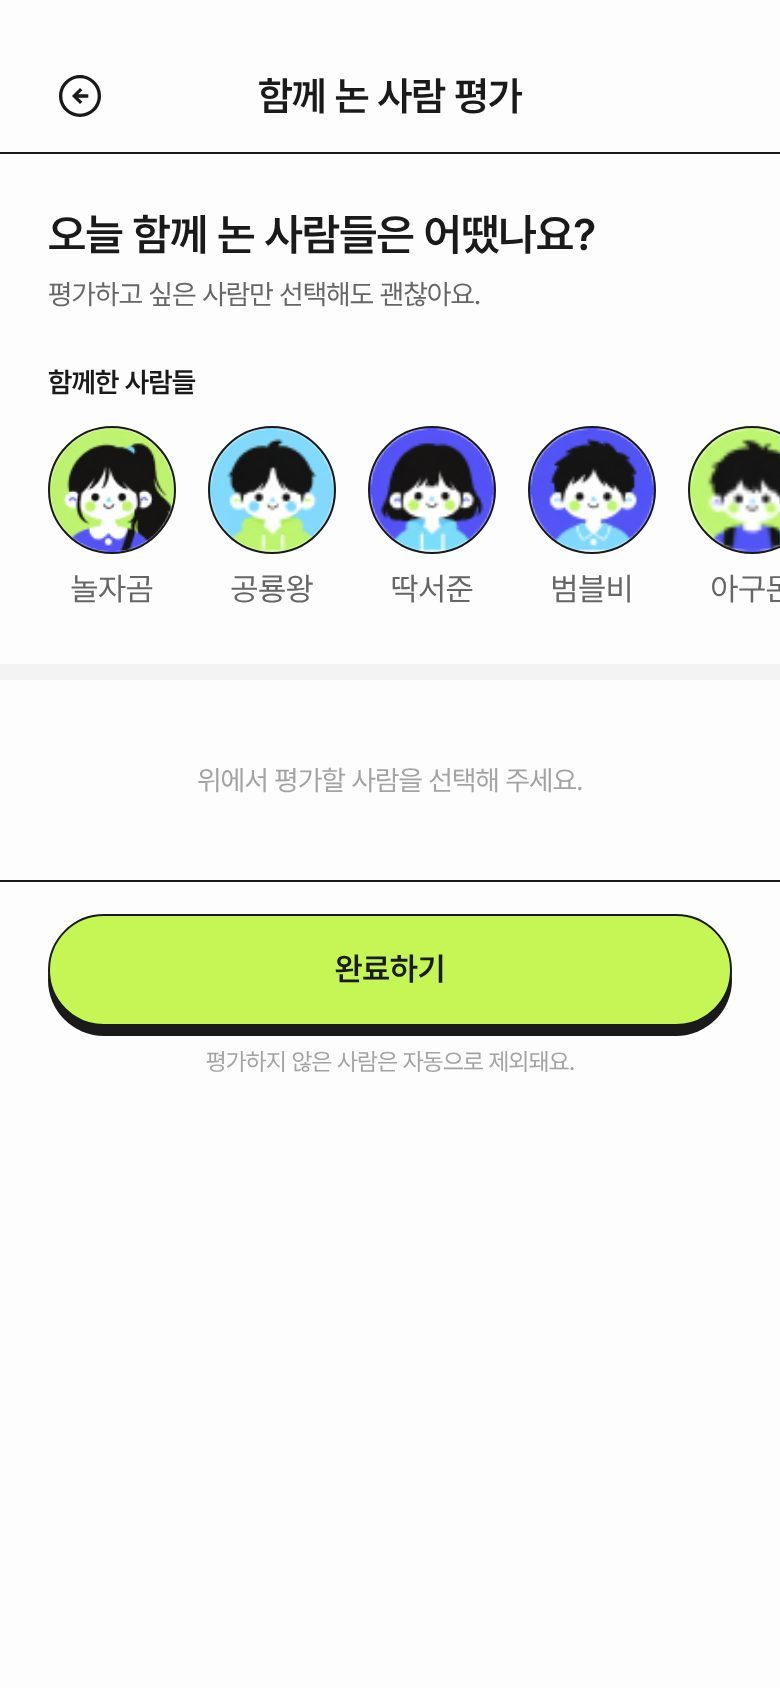
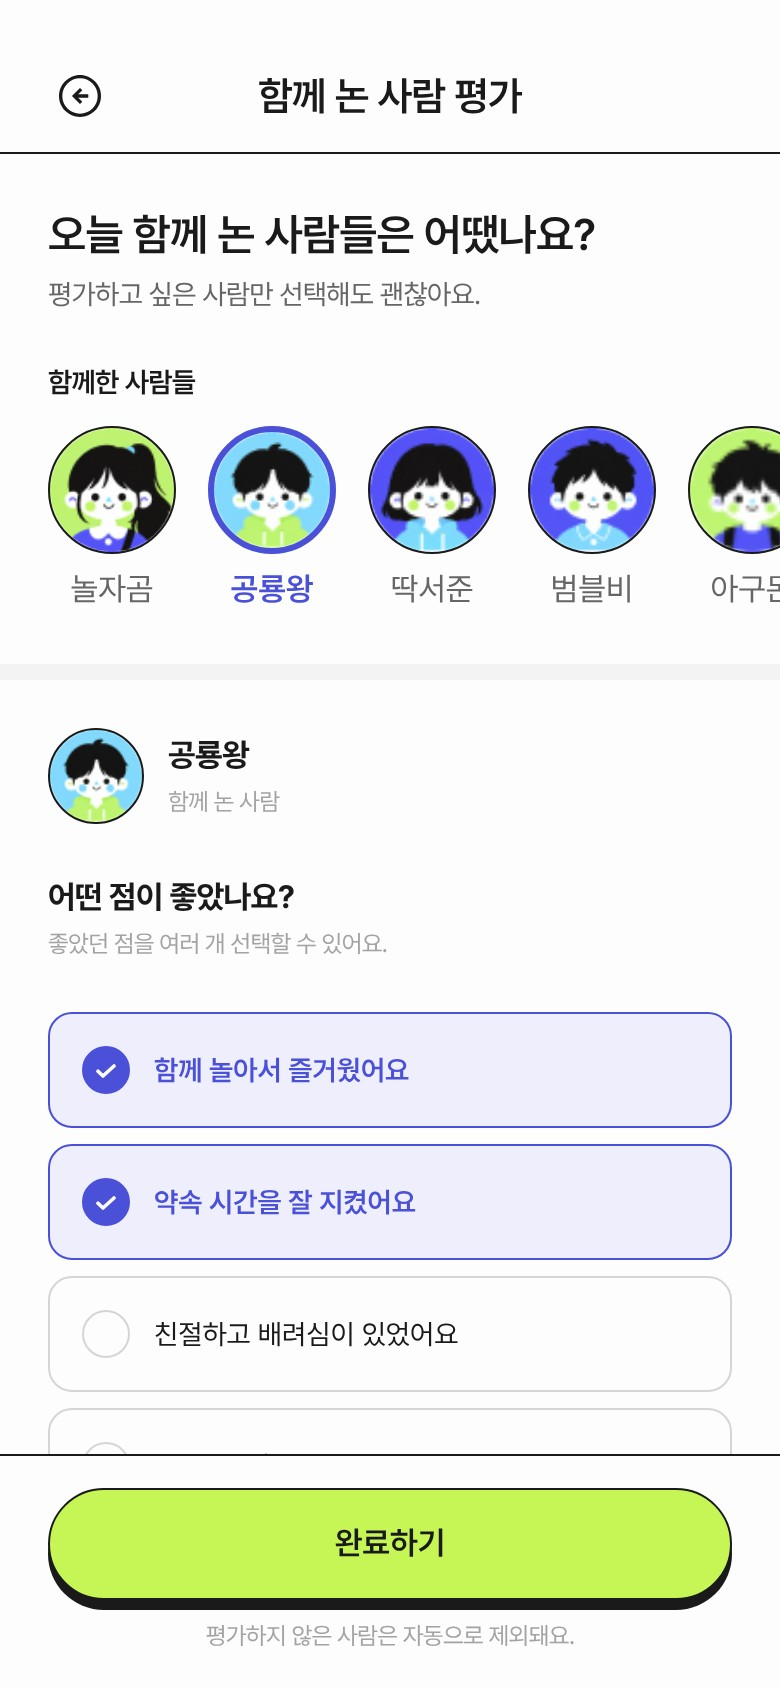
Add files via upload

diff --git a/pocket/index.html b/pocket/index.html
@@ -98,8 +98,9 @@ button{font-family:inherit;cursor:pointer;color:inherit}
 .chip b{font-family:'Press Start 2P',monospace;font-size:7px;font-weight:400}
 .chip.on{background:#1A1A1A;border-color:#1A1A1A;color:#FDFDFD}
 .chip.on b{color:#C5F656}
+.vrow .vn{background:#FDFDFD;transition:background .2s}.vrow.on .vn{background:#C5F656}.vrow:not(.on) p>b{color:#8A8A8A!important;font-size:15px!important}.vd{display:block;animation:fade .25s both}
 .vpanel{position:absolute;left:28px;top:64px;width:200px;height:336px;border-radius:22px;background:#F4FBE3;border:2px solid #E2F3B8;box-sizing:border-box}
-.vrow{display:flex;gap:12px;align-items:flex-start;padding:10px 0;border-top:1.5px solid #E3E4EA}
+.vrow{cursor:pointer;display:flex;gap:12px;align-items:flex-start;padding:10px 0;border-top:1.5px solid #E3E4EA}
 .blink{animation:blink 1s steps(1) infinite}
 .clr{position:absolute;inset:0;overflow:hidden;cursor:pointer;background:#5BC8FA;z-index:8;animation:clrfade .9s .5s ease both}
 @keyframes clrfade{from{opacity:0}}
@@ -191,19 +192,19 @@ button{font-family:inherit;cursor:pointer;color:inherit}
 <div class="view">
 <div class="chips"><sc-for list="{{chips}}" as="cp" hint-placeholder-count="5"><button class="chip {{cp.on}}" onClick="{{cp.pick}}"><b>{{cp.n}}</b>{{cp.title}}</button></sc-for></div>
 <div class="vpanel"></div>
-<sc-if value="{{st.phone}}" hint-placeholder-val="{{true}}"><div style="position: absolute; left: 53px; top: 76px; width: 150px; height: 312px; border: 4px solid #1A1A1A; border-radius: 24px; overflow: hidden; background: #1A1A1A; box-sizing: border-box"><img src="{{st.img}}" alt="{{st.alt}}" style="width: 100%; height: 100%; object-fit: cover; object-position: top; display: block"></div></sc-if>
-<sc-if value="{{st.watch}}" hint-placeholder-val="{{false}}">
+<sc-if value="{{sv.phone}}" hint-placeholder-val="{{true}}"><div style="position: absolute; left: 53px; top: 76px; width: 150px; height: 312px; border: 4px solid #1A1A1A; border-radius: 24px; overflow: hidden; background: #1A1A1A; box-sizing: border-box"><img src="{{sv.img}}" alt="{{sv.alt}}" style="width: 100%; height: 100%; object-fit: cover; object-position: top; display: block"></div></sc-if>
+<sc-if value="{{sv.watch}}" hint-placeholder-val="{{false}}">
 <span style="position: absolute; left: 77px; top: 76px; width: 102px; height: 80px; background: #3A3B45; border: 3px solid #1A1A1A; border-bottom: 0; border-radius: 16px 16px 0 0; box-sizing: border-box"></span>
 <span style="position: absolute; left: 77px; top: 308px; width: 102px; height: 80px; background: #3A3B45; border: 3px solid #1A1A1A; border-top: 0; border-radius: 0 0 16px 16px; box-sizing: border-box"></span>
 <span style="position: absolute; left: 206px; top: 178px; width: 10px; height: 38px; background: #1A1A1A; border-radius: 0 5px 5px 0"></span>
-<div style="position: absolute; left: 48px; top: 136px; width: 160px; height: 192px; border-radius: 42px; background: #1A1A1A; border: 4px solid #1A1A1A; box-sizing: border-box; padding: 7px; box-shadow: inset 0 0 0 3px #4A4B55"><img src="{{st.img}}" alt="{{st.alt}}" style="width: 100%; height: 100%; object-fit: cover; border-radius: 32px; display: block"></div>
+<div style="position: absolute; left: 48px; top: 136px; width: 160px; height: 192px; border-radius: 42px; background: #1A1A1A; border: 4px solid #1A1A1A; box-sizing: border-box; padding: 7px; box-shadow: inset 0 0 0 3px #4A4B55"><img src="{{sv.img}}" alt="{{sv.alt}}" style="width: 100%; height: 100%; object-fit: cover; border-radius: 32px; display: block"></div>
 </sc-if>
 <div style="position: absolute; left: 256px; top: 64px; right: 30px; height: 336px; display: flex; flex-direction: column; justify-content: center; padding-bottom: 28px; box-sizing: border-box">
 <p style="margin: 0 0 6px; font-size: 32px; line-height: 38px; font-weight: 900; letter-spacing: -0.03em">{{st.title}}</p>
 <p style="margin: 0 0 18px; font-size: 15px; line-height: 22px; font-weight: 700; color: #5C5C5C">{{st.desc}}</p>
-<sc-for list="{{st.notes}}" as="nt" hint-placeholder-count="3"><div class="vrow"><b class="vn">{{nt.k}}</b><p style="margin: 0; font-size: 14px; line-height: 20px; color: #3A3A3A"><b style="display: block; font-size: 17px; line-height: 23px; color: #1A1A1A">{{nt.t}}</b>{{nt.d}}</p></div></sc-for>
+<sc-for list="{{slides}}" as="sd" hint-placeholder-count="3"><div class="vrow {{sd.on}}" onClick="{{sd.pick}}" role="button" tabindex="0"><b class="vn">{{sd.k}}</b><p style="margin: 0; font-size: 14px; line-height: 20px; color: #3A3A3A"><b style="display: block; font-size: 17px; line-height: 23px; color: #1A1A1A">{{sd.t}}</b><sc-if value="{{sd.open}}" hint-placeholder-val="{{false}}"><span class="vd">{{sd.d}}</span></sc-if></p></div></sc-for>
 </div>
-<div class="hint"><span><b>◀▶</b>단계</span><span><b>B</b>홈</span></div>
+<div class="hint"><span><b>◀▶</b>화면 넘기기</span><span><b>B</b>홈</span></div>
 </div>
 </sc-if>
 
@@ -276,12 +277,11 @@ function rr(c,x,y,w,h,r){ c.beginPath(); c.moveTo(x+r,y); c.lineTo(x+w-r,y); c.a
 var EN=['STAGE 01 · START','STAGE 02 · HOME','STAGE 03 · MEET UP','STAGE 04 · PLAY','STAGE 05 · CLEAR'];
 var ROT=[-6,4,-3,5];
 var AC=null;
-var ST=CH.map(function(c,i){ var n=c.subs[0].notes.concat(c.subs[1]?[c.subs[1].notes[0]]:[]); return {n:i+1,title:c.title,desc:c.desc,img:c.subs[0].img,alt:c.subs[0].alt,watch:c.subs[0].kind==='watch',notes:n.map(function(x,k){ return {k:k+1,t:x[0],d:x[1]}; })}; });
-ST[3].img=CH[3].subs[2].img; ST[3].watch=true; ST[3].alt=CH[3].subs[2].alt;
+var ST=CH.map(function(c,i){ return {n:i+1,title:c.title,desc:c.desc,slides:c.subs.map(function(sb){ return {img:sb.img,alt:sb.alt,watch:sb.kind==='watch',t:sb.notes[0][0],d:sb.notes[0][1]}; })}; });
 class Component extends DCLogic {
   constructor(p){
     super(p);
-    this.state={mode:'off',sel:0,st:0,score:0,lives:3,status:'ready',sound:true,scale:1,clock:'12:00',lDown:false,rDown:false,aDown:false,bDown:false,xDown:false,yDown:false};
+    this.state={mode:'off',sel:0,st:0,sl:0,score:0,lives:3,status:'ready',sound:true,scale:1,clock:'12:00',lDown:false,rDown:false,aDown:false,bDown:false,xDown:false,yDown:false};
     var self=this;
     this.setCanvas=function(el){ if(el){ if(el!==self.cv){ self.cv=el; self.initGame(); } } else { cancelAnimationFrame(self.raf); self.cv=null; } };
   }
@@ -306,16 +306,19 @@ class Component extends DCLogic {
       clearTimeout(this.bt); this.bt=setTimeout(function(){ if(self.state.mode==='boot') self.setState({mode:'home'}); },1900);
     } else { clearTimeout(this.bt); this.setState({mode:'off'}); this.beep(330,0.1); this.beep(196,0.2,'square',0.1); }
   }
+  step(d){ var st=this.state.st, sl=this.state.sl+d;
+    if(sl>=ST[st].slides.length){ st=(st+1)%ST.length; sl=0; } else if(sl<0){ st=(st+ST.length-1)%ST.length; sl=ST[st].slides.length-1; }
+    this.setState({st:st,sl:sl}); this.beep(660,0.04); }
   dir(dx,dy){
     var m=this.state.mode;
     if(m==='home'){ var s=(dx||dy)<0?0:1; if(s!==this.state.sel){ this.setState({sel:s}); this.beep(660,0.04); } else this.beep(196,0.05); }
-    else if(m==='view'){ this.setState({st:(this.state.st+(dx||dy)+5)%5}); this.beep(660,0.04); }
+    else if(m==='view'){ this.step(dx||dy); }
     else if(m==='game'&&this.pad){ this.pad.tx=this.pad.x+(dx||0)*130; }
   }
   A(){
     this.press('aDown'); var m=this.state.mode;
-    if(m==='home'){ this.beep(880,0.06); this.beep(1175,0.12,'square',0.07); if(this.state.sel===0) this.setState({mode:'view',st:0}); else this.setState({mode:'game',score:0,lives:3,status:'ready'}); }
-    else if(m==='view'){ this.setState({st:(this.state.st+1)%5}); this.beep(660,0.05); }
+    if(m==='home'){ this.beep(880,0.06); this.beep(1175,0.12,'square',0.07); if(this.state.sel===0) this.setState({mode:'view',st:0,sl:0}); else this.setState({mode:'game',score:0,lives:3,status:'ready'}); }
+    else if(m==='view'){ this.step(1); }
     else if(m==='game'){ var st=this.state.status; if(st==='ready') this.serve(); else if(st==='over'||st==='clear') this.restart(); this.beep(740,0.05); }
   }
   B(){ this.press('bDown'); var m=this.state.mode; if(m==='view'||m==='game'){ this.setState({mode:'home',sel:m==='game'?1:0}); this.beep(392,0.08); this.beep(330,0.1,'square',0.08); } }
@@ -450,8 +453,10 @@ class Component extends DCLogic {
       clock:s.clock, sel0:s.sel===0?'sel':'', sel1:s.sel===1?'sel':'',
       pick0:function(){ if(self.state.sel===0) self.A(); else { self.setState({sel:0}); self.beep(660,0.04); } },
       pick1:function(){ if(self.state.sel===1) self.A(); else { self.setState({sel:1}); self.beep(660,0.04); } },
-      chips:ST.map(function(x,i){ return {n:i+1,title:x.title,on:i===s.st?'on':'',pick:function(){ self.setState({st:i}); self.beep(660,0.04); }}; }),
-      st:{n:st.n,title:st.title,desc:st.desc,img:st.img,alt:st.alt,phone:!st.watch,watch:!!st.watch,notes:st.notes},
+      chips:ST.map(function(x,i){ return {n:i+1,title:x.title,on:i===s.st?'on':'',pick:function(){ self.setState({st:i,sl:0}); self.beep(660,0.04); }}; }),
+      st:{n:st.n,title:st.title,desc:st.desc},
+      sv:{img:st.slides[s.sl].img,alt:st.slides[s.sl].alt,phone:!st.slides[s.sl].watch,watch:!!st.slides[s.sl].watch},
+      slides:st.slides.map(function(x,k){ return {k:k+1,t:x.t,d:x.d,on:k===s.sl?'on':'',open:k===s.sl,pick:function(){ if(k!==self.state.sl){ self.setState({sl:k}); self.beep(660,0.04); } }}; }),
       setCanvas:this.setCanvas, score:s.score, total:TOTAL, livesTxt:'●●●'.slice(0,s.lives)+'○○○'.slice(0,3-s.lives),
       pts:('0000'+s.score*50).slice(-5), lifeDots:[0,1,2].map(function(i){ return {on:i<s.lives?'on':''}; }),
       isReady:s.status==='ready', isOver:s.status==='over', toMenu:function(e){ if(e&&e.stopPropagation) e.stopPropagation(); self.B(); },

diff --git a/game-assets/dc-lite.js b/game-assets/dc-lite.js
@@ -60,7 +60,8 @@
       detach(live); live.replaceWith(fresh); attach(fresh); return;
     }
     if (live.nodeType === 3) { if (live.nodeValue !== fresh.nodeValue) live.nodeValue = fresh.nodeValue; return; }
-    for (const a of Array.from(live.attributes)) if (!fresh.hasAttribute(a.name)) live.removeAttribute(a.name);
+    const isCv = live.localName === 'canvas';
+    for (const a of Array.from(live.attributes)) if (!fresh.hasAttribute(a.name) && !(isCv && (a.name === 'width' || a.name === 'height'))) live.removeAttribute(a.name);
     for (const a of fresh.attributes) if (live.getAttribute(a.name) !== a.value) live.setAttribute(a.name, a.value);
     bindEvents(live, fresh.__ev || {});
     if (fresh.__ref !== live.__ref) { if (typeof live.__ref === 'function') live.__ref(null); live.__ref = fresh.__ref; if (typeof live.__ref === 'function') live.__ref(live); }
